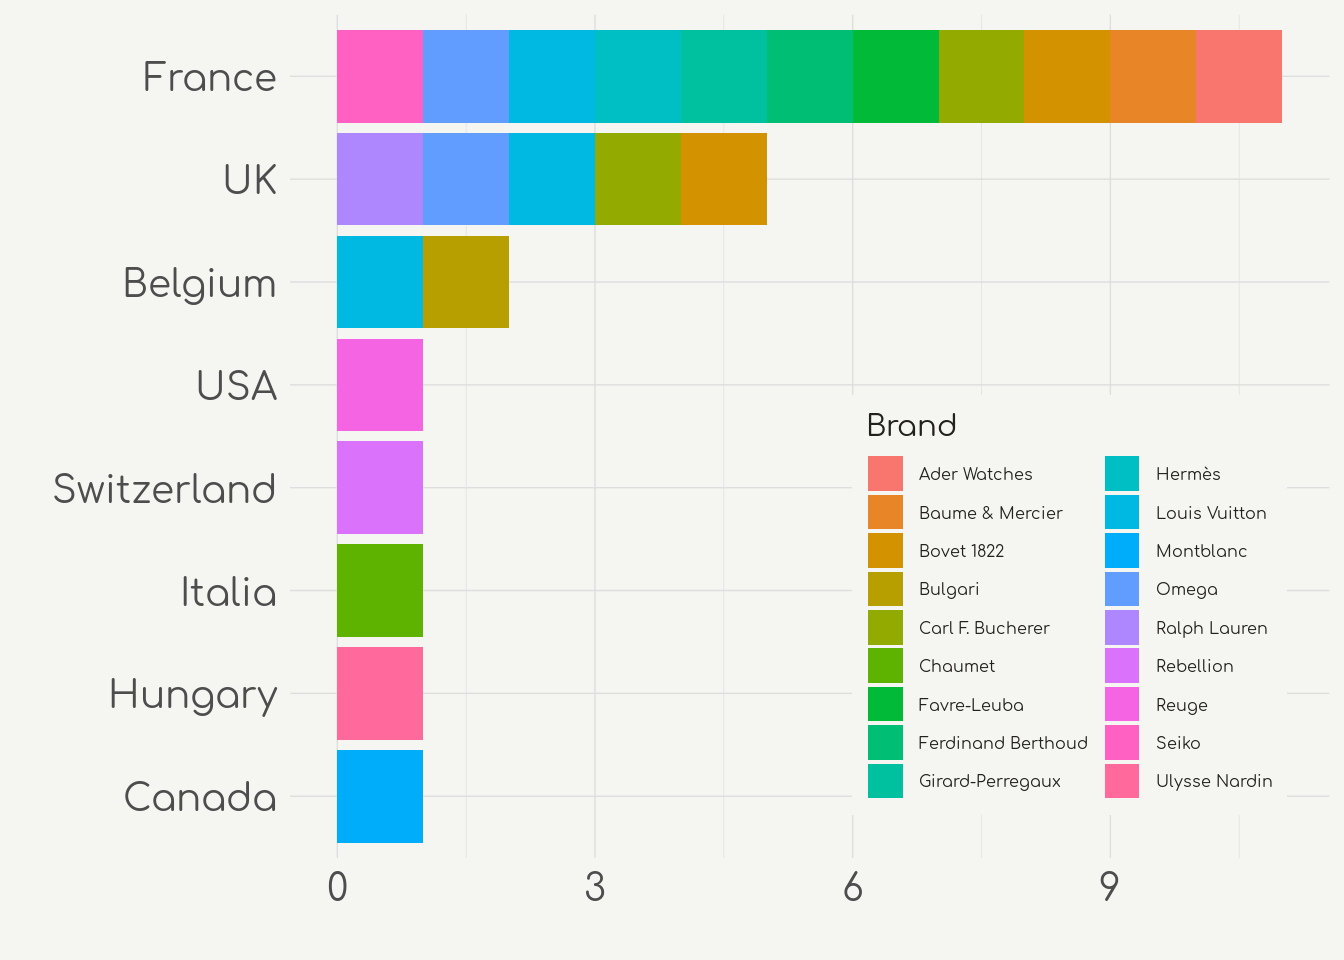
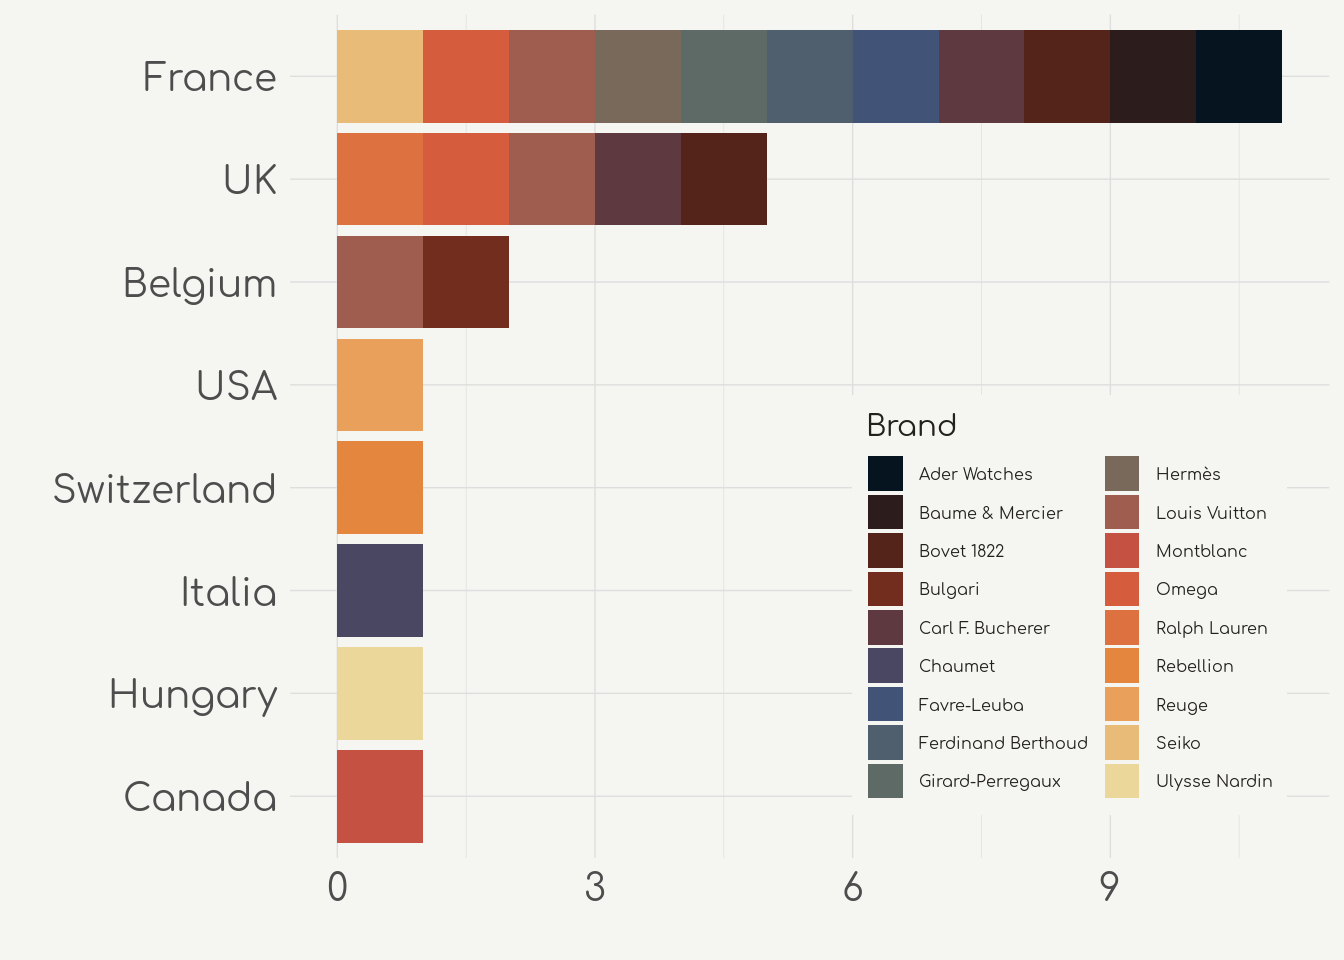
change bar chart color scheme

Changed region(s): [[0.25, 0.0312, 0.9688, 0.875], [0.625, 0.4688, 0.6875, 0.8438], [0.8125, 0.4688, 0.875, 0.8438]]

diff --git a/content/blog/2019-01-31-world-tempus-advent-calendar-2018.html b/content/blog/2019-01-31-world-tempus-advent-calendar-2018.html
@@ -30,15 +30,14 @@ type: post
 <p>I love watches! For many, it is a dying (or dead) art. We can tell time using phones, computers, and smart watches, and they each perform many more functions making the traditional watch all but obsolete. But, to me, mechanical watches are the perfect example of form and function. I find it amazing how a selection of tiny gears and a long spring can measure something like time with very reasonable accuracy.</p>
 <p>As a result, I enjoy reading and watching horological content and, well, entering the occasional contest. So when WorldTempus had their annual advent calendar contest, I entered whenever I saw something of interest. Sometime after Christmas, they announced the winners on their <a href="http://en.worldtempus.com/article/events/arts-and-culture/advent-calendar-here-are-the-winners-26936.html?utm_source=Worldtempus+Concours+EN&amp;utm_campaign=d835784c43-EMAIL_CAMPAIGN_2018_avent_gagnant_generale_EN&amp;utm_medium=email&amp;utm_term=0_1b496ba624-d835784c43-119672677">web site</a> and I was immediately struck by how many winners were from France. I wondered what else I could glean from the small amount of data on that page so I set off to learn how to use rvest to scrape the data and regular expressions to clean and parse it. I also had the idea to visualize how some features are related and finally learned how to construct a simple Sankey diagram.
 </br></br></p>
-</div>
-<div id="setup" class="section level1">
-<h1>Setup</h1>
+<div id="setup" class="section level2">
+<h2>Setup</h2>
 <p>First step is to load in some libraries and set up some aesthetics.</p>
 <pre class="r"><code>library(tidyverse)
 library(lubridate)
 library(rvest)
 library(networkD3)</code></pre>
-<p></br></p>
+</div>
 <div id="scraping-the-web" class="section level2">
 <h2>Scraping the web</h2>
 <p>Below I use rvest’s read_html function to load the url. The content is parsed using html_nodes that I identified using the SelectorGadget browser plugin.</p>
@@ -365,6 +364,7 @@ France
   geom_histogram(stat=&quot;count&quot;) +
   coord_flip() +
   labs(x=&quot;&quot;,y=&quot;&quot;) +
+  scale_fill_manual(values = ghibli::ghibli_palette(18, name = &quot;MononokeMedium&quot;, type = &quot;continuous&quot;)) +
   theme(axis.text = element_text(size = 14),
         legend.position = c(0.75,0.3),
         legend.text = element_text(size=6)) +
